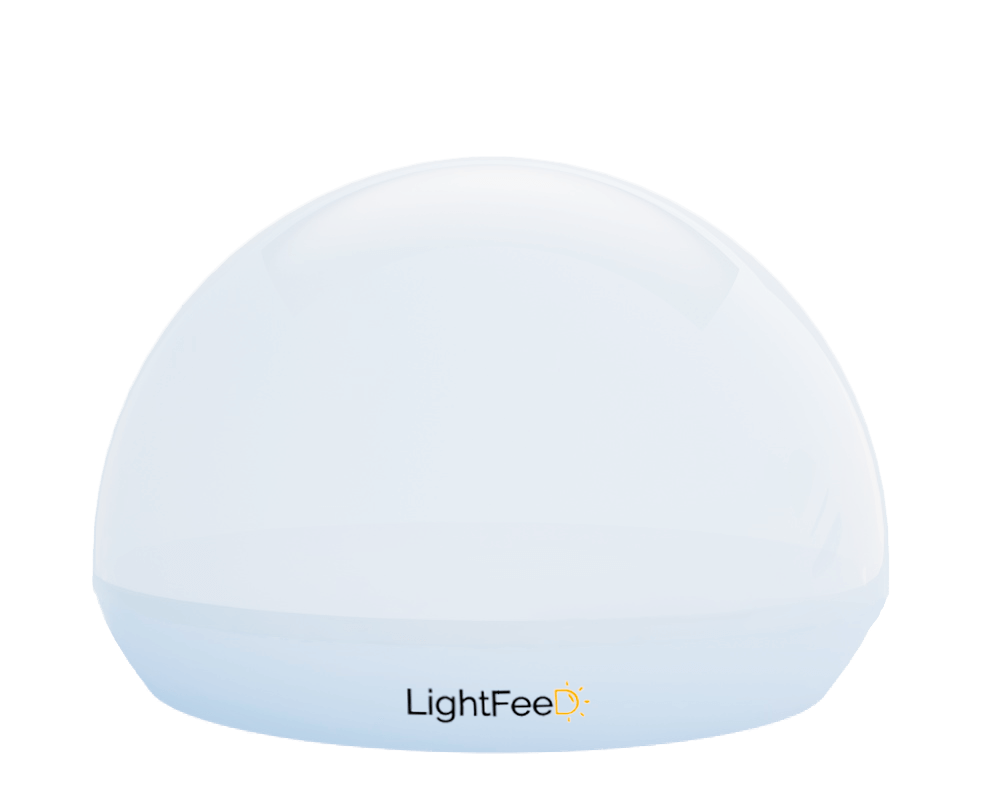
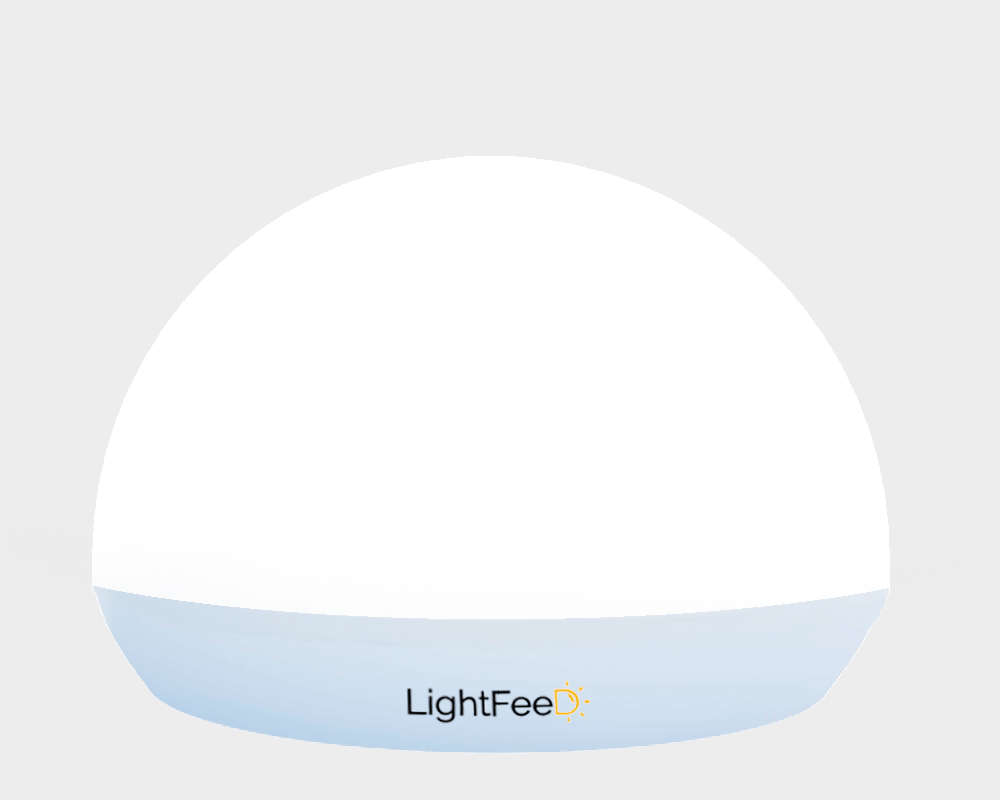
Added mood mode

Changed region(s): [[0.093, 0.25, 0.899, 0.7812], [0.558, 0.3125, 0.744, 0.4062], [0.341, 0.2188, 0.372, 0.25]]

diff --git a/API/RedAlert.API/RedAlert.API/Content/landing-page.css b/API/RedAlert.API/RedAlert.API/Content/landing-page.css
@@ -35,6 +35,10 @@ h6 {
 {
   text-align:center;
 }
+#devicePng {
+    background-color: white;
+}
+
 .blink {
   animation: blink-animation 2s steps(5, start) infinite;
   -webkit-animation: blink-animation 2s steps(5, start) infinite;

diff --git a/API/RedAlert.API/RedAlert.API/Content/bootstrap.css b/API/RedAlert.API/RedAlert.API/Content/bootstrap.css
@@ -3354,6 +3354,7 @@ input[type="button"].btn-block {
   .navbar-right .dropdown-menu {
     right: 0;
     left: auto;
+   width: 100%;
   }
 }
 
